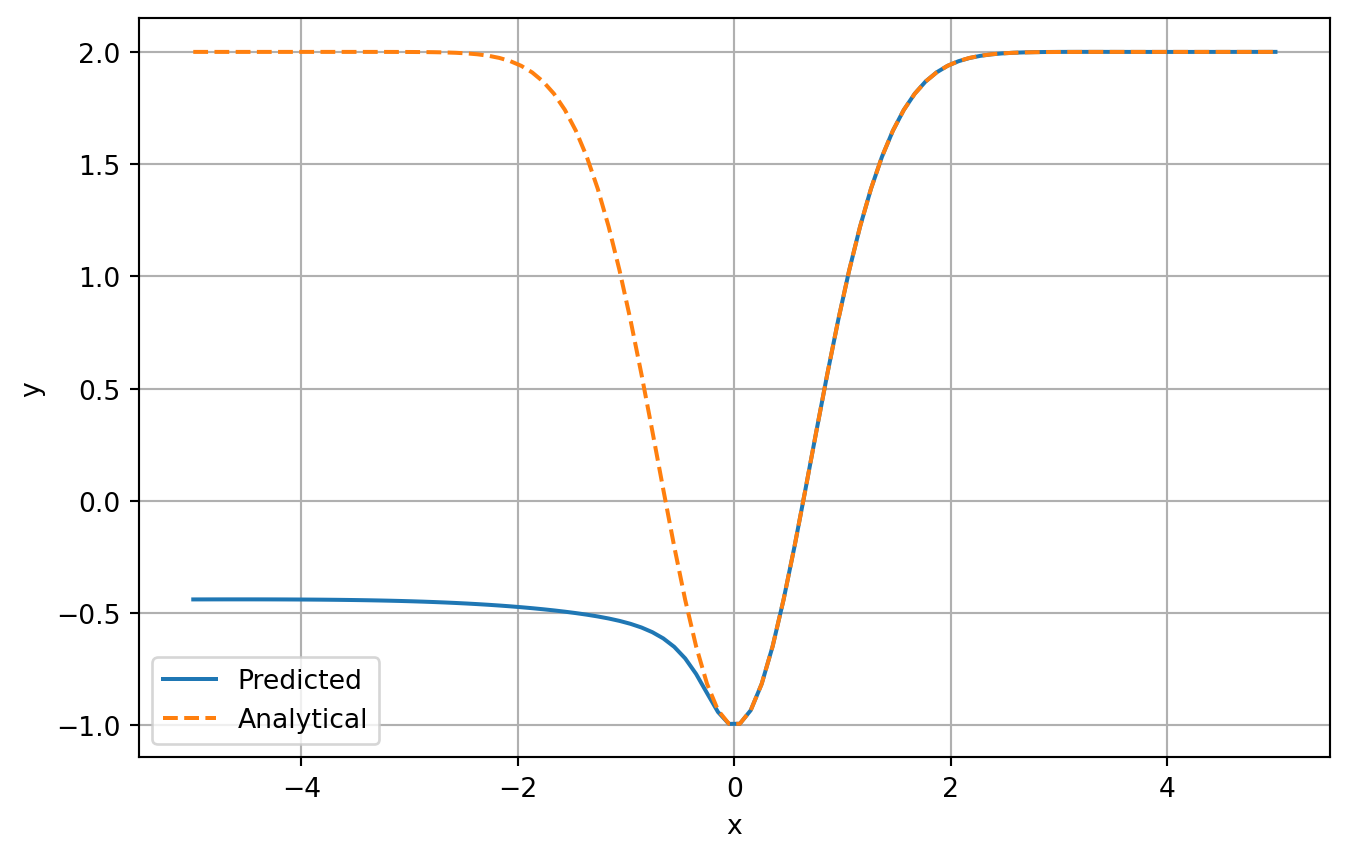
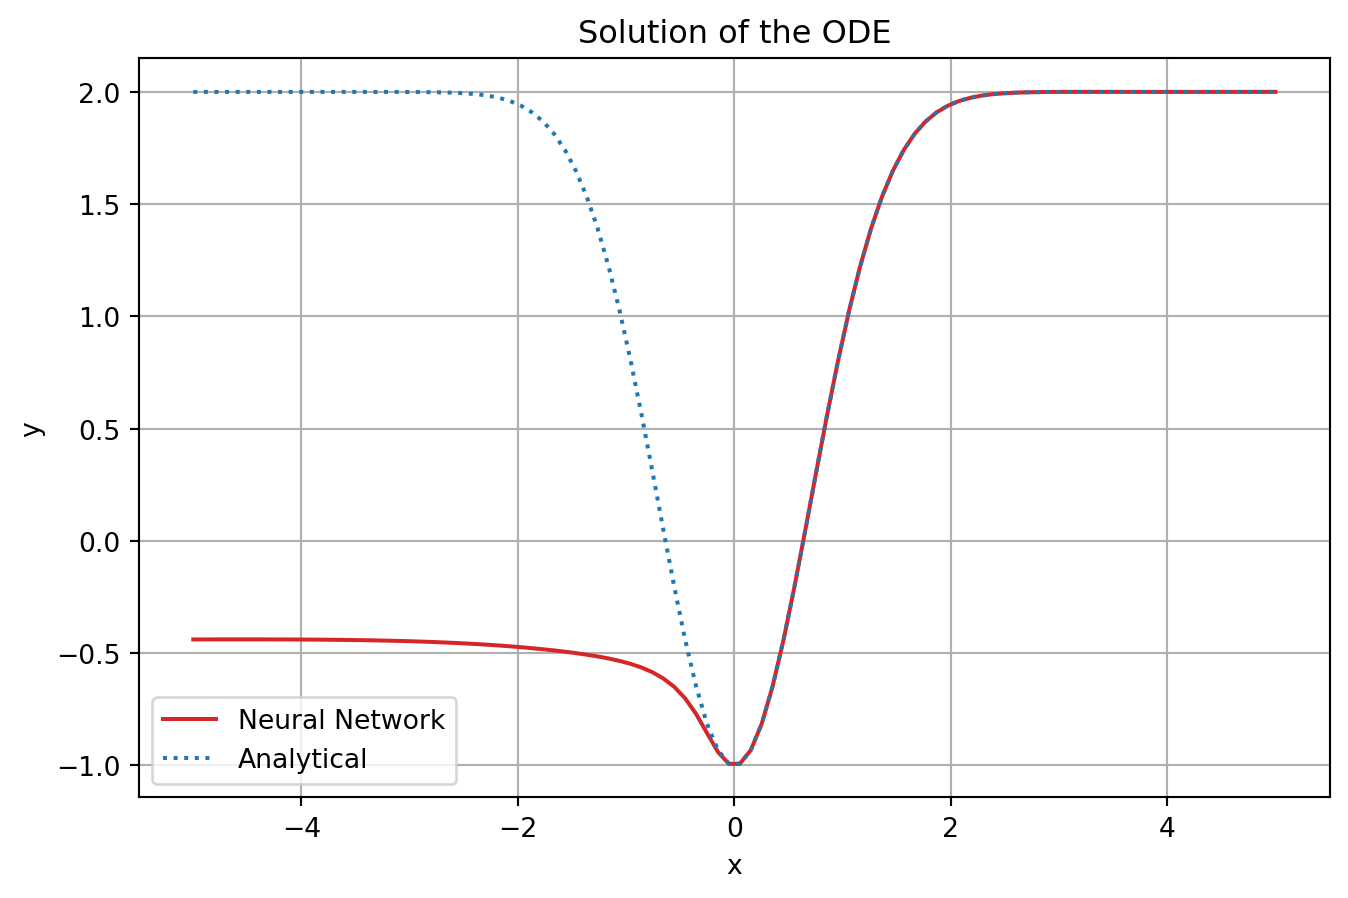
update website

diff --git a/docs/blog/SolvingODEsUsingANNs/SolvingODEsUsingANNs.html b/docs/blog/SolvingODEsUsingANNs/SolvingODEsUsingANNs.html
@@ -179,10 +179,10 @@ code span.wa { color: #60a0b0; font-weight: bold; font-style: italic; } /* Warni
   <li><a href="#second-ode" id="toc-second-ode" class="nav-link" data-scroll-target="#second-ode">Second ODE</a>
   <ul class="collapse">
   <li><a href="#define-custom-loss-function-1" id="toc-define-custom-loss-function-1" class="nav-link" data-scroll-target="#define-custom-loss-function-1">Define Custom Loss Function</a></li>
-  </ul></li>
   <li><a href="#construct-model-loss-and-optimizer-1" id="toc-construct-model-loss-and-optimizer-1" class="nav-link" data-scroll-target="#construct-model-loss-and-optimizer-1">Construct model, loss and optimizer</a></li>
   <li><a href="#set-x-values-1" id="toc-set-x-values-1" class="nav-link" data-scroll-target="#set-x-values-1">Set x-values</a></li>
   <li><a href="#training-1" id="toc-training-1" class="nav-link" data-scroll-target="#training-1">Training</a></li>
+  </ul></li>
   <li><a href="#visualize-learned-and-analytical-solution-1" id="toc-visualize-learned-and-analytical-solution-1" class="nav-link" data-scroll-target="#visualize-learned-and-analytical-solution-1">Visualize learned and analytical solution</a></li>
   </ul>
 </nav>
@@ -333,34 +333,34 @@ code span.wa { color: #60a0b0; font-weight: bold; font-style: italic; } /* Warni
 <span id="cb6-14"><a href="#cb6-14" aria-hidden="true" tabindex="-1"></a>    </span>
 <span id="cb6-15"><a href="#cb6-15" aria-hidden="true" tabindex="-1"></a>  <span class="bu">print</span>(<span class="ss">f"Epoch [</span><span class="sc">{</span>epoch<span class="op">+</span><span class="dv">1</span><span class="sc">}</span><span class="ss">/</span><span class="sc">{</span>num_epochs<span class="sc">}</span><span class="ss">], Loss: </span><span class="sc">{</span>loss<span class="sc">.</span>item()<span class="sc">:.4f}</span><span class="ss">"</span>)</span></code><button title="Copy to Clipboard" class="code-copy-button"><i class="bi"></i></button></pre></div>
 <div class="cell-output cell-output-stdout">
-<pre><code>Epoch [1/10], Loss: 0.6632</code></pre>
+<pre><code>Epoch [1/10], Loss: 0.1614</code></pre>
 </div>
 <div class="cell-output cell-output-stdout">
-<pre><code>Epoch [2/10], Loss: 0.1216</code></pre>
+<pre><code>Epoch [2/10], Loss: 0.0779</code></pre>
 </div>
 <div class="cell-output cell-output-stdout">
-<pre><code>Epoch [3/10], Loss: 0.0654</code></pre>
+<pre><code>Epoch [3/10], Loss: 0.0125</code></pre>
 </div>
 <div class="cell-output cell-output-stdout">
-<pre><code>Epoch [4/10], Loss: 0.0057</code></pre>
+<pre><code>Epoch [4/10], Loss: 0.0042</code></pre>
 </div>
 <div class="cell-output cell-output-stdout">
-<pre><code>Epoch [5/10], Loss: 0.0034</code></pre>
+<pre><code>Epoch [5/10], Loss: 0.0027</code></pre>
 </div>
 <div class="cell-output cell-output-stdout">
-<pre><code>Epoch [6/10], Loss: 0.0016</code></pre>
+<pre><code>Epoch [6/10], Loss: 0.0004</code></pre>
 </div>
 <div class="cell-output cell-output-stdout">
-<pre><code>Epoch [7/10], Loss: 0.0008</code></pre>
+<pre><code>Epoch [7/10], Loss: 0.0001</code></pre>
 </div>
 <div class="cell-output cell-output-stdout">
-<pre><code>Epoch [8/10], Loss: 0.0004</code></pre>
+<pre><code>Epoch [8/10], Loss: 0.0000</code></pre>
 </div>
 <div class="cell-output cell-output-stdout">
-<pre><code>Epoch [9/10], Loss: 0.0002</code></pre>
+<pre><code>Epoch [9/10], Loss: 0.0000</code></pre>
 </div>
 <div class="cell-output cell-output-stdout">
-<pre><code>Epoch [10/10], Loss: 0.0002</code></pre>
+<pre><code>Epoch [10/10], Loss: 0.0000</code></pre>
 </div>
 </div>
 </section>
@@ -374,16 +374,17 @@ code span.wa { color: #60a0b0; font-weight: bold; font-style: italic; } /* Warni
 <span id="cb17-3"><a href="#cb17-3" aria-hidden="true" tabindex="-1"></a>  y <span class="op">=</span> model(x)</span>
 <span id="cb17-4"><a href="#cb17-4" aria-hidden="true" tabindex="-1"></a></span>
 <span id="cb17-5"><a href="#cb17-5" aria-hidden="true" tabindex="-1"></a>plt.figure(figsize<span class="op">=</span>(<span class="dv">8</span>, <span class="dv">5</span>))</span>
-<span id="cb17-6"><a href="#cb17-6" aria-hidden="true" tabindex="-1"></a>plt.plot(x, y, label<span class="op">=</span><span class="st">"Predicted"</span>)</span>
-<span id="cb17-7"><a href="#cb17-7" aria-hidden="true" tabindex="-1"></a>plt.plot(x, torch.exp(<span class="op">-</span><span class="fl">0.5</span><span class="op">*</span>x)<span class="op">*</span>(<span class="fl">0.5</span><span class="op">*</span>torch.cos(x<span class="op">*</span>(<span class="dv">15</span>)<span class="op">**</span><span class="fl">0.5</span><span class="op">/</span><span class="dv">2</span>)<span class="op">+</span><span class="dv">3</span><span class="op">*</span>((<span class="dv">15</span>)<span class="op">**</span><span class="fl">0.5</span><span class="op">/</span><span class="dv">10</span>)<span class="op">*</span>torch.sin(x<span class="op">*</span>(<span class="dv">15</span>)<span class="op">**</span><span class="fl">0.5</span><span class="op">/</span><span class="dv">2</span>)), <span class="st">'--'</span>, label<span class="op">=</span><span class="st">"Analytical"</span>)</span>
-<span id="cb17-8"><a href="#cb17-8" aria-hidden="true" tabindex="-1"></a>plt.xlabel(<span class="st">"x"</span>)</span>
-<span id="cb17-9"><a href="#cb17-9" aria-hidden="true" tabindex="-1"></a>plt.ylabel(<span class="st">"y"</span>)</span>
-<span id="cb17-10"><a href="#cb17-10" aria-hidden="true" tabindex="-1"></a>plt.legend()</span>
-<span id="cb17-11"><a href="#cb17-11" aria-hidden="true" tabindex="-1"></a>plt.grid()</span>
-<span id="cb17-12"><a href="#cb17-12" aria-hidden="true" tabindex="-1"></a>plt.show()</span></code><button title="Copy to Clipboard" class="code-copy-button"><i class="bi"></i></button></pre></div>
+<span id="cb17-6"><a href="#cb17-6" aria-hidden="true" tabindex="-1"></a>plt.plot(x, y, color<span class="op">=</span><span class="st">"C3"</span>, label<span class="op">=</span><span class="st">"Neural Network"</span>)</span>
+<span id="cb17-7"><a href="#cb17-7" aria-hidden="true" tabindex="-1"></a>plt.plot(x, torch.exp(<span class="op">-</span><span class="fl">0.5</span><span class="op">*</span>x)<span class="op">*</span>(<span class="fl">0.5</span><span class="op">*</span>torch.cos(x<span class="op">*</span>(<span class="dv">15</span>)<span class="op">**</span><span class="fl">0.5</span><span class="op">/</span><span class="dv">2</span>)<span class="op">+</span><span class="dv">3</span><span class="op">*</span>((<span class="dv">15</span>)<span class="op">**</span><span class="fl">0.5</span><span class="op">/</span><span class="dv">10</span>)<span class="op">*</span>torch.sin(x<span class="op">*</span>(<span class="dv">15</span>)<span class="op">**</span><span class="fl">0.5</span><span class="op">/</span><span class="dv">2</span>)), color<span class="op">=</span><span class="st">"C0"</span>, label<span class="op">=</span><span class="st">"Analytical"</span>, linestyle<span class="op">=</span><span class="st">"dotted"</span>)</span>
+<span id="cb17-8"><a href="#cb17-8" aria-hidden="true" tabindex="-1"></a>plt.title(<span class="st">"Solution of the ODE"</span>)</span>
+<span id="cb17-9"><a href="#cb17-9" aria-hidden="true" tabindex="-1"></a>plt.xlabel(<span class="st">"x"</span>)</span>
+<span id="cb17-10"><a href="#cb17-10" aria-hidden="true" tabindex="-1"></a>plt.ylabel(<span class="st">"y"</span>)</span>
+<span id="cb17-11"><a href="#cb17-11" aria-hidden="true" tabindex="-1"></a>plt.legend()</span>
+<span id="cb17-12"><a href="#cb17-12" aria-hidden="true" tabindex="-1"></a>plt.grid()</span>
+<span id="cb17-13"><a href="#cb17-13" aria-hidden="true" tabindex="-1"></a>plt.show()</span></code><button title="Copy to Clipboard" class="code-copy-button"><i class="bi"></i></button></pre></div>
 </details>
 <div class="cell-output cell-output-display">
-<p><img src="SolvingODEsUsingANNs_files/figure-html/cell-8-output-1.png" width="674" height="429"></p>
+<p><img src="SolvingODEsUsingANNs_files/figure-html/cell-8-output-1.png" width="674" height="449"></p>
 </div>
 </div>
 </section>
@@ -415,36 +416,38 @@ code span.wa { color: #60a0b0; font-weight: bold; font-style: italic; } /* Warni
 <span id="cb18-20"><a href="#cb18-20" aria-hidden="true" tabindex="-1"></a>    <span class="cf">return</span> loss_total</span></code><button title="Copy to Clipboard" class="code-copy-button"><i class="bi"></i></button></pre></div>
 </div>
 </section>
-</section>
-<section id="construct-model-loss-and-optimizer-1" class="level1">
-<h1>Construct model, loss and optimizer</h1>
+<section id="construct-model-loss-and-optimizer-1" class="level2">
+<h2 class="anchored" data-anchor-id="construct-model-loss-and-optimizer-1">Construct model, loss and optimizer</h2>
 <div class="cell" data-execution_count="9">
 <div class="sourceCode cell-code" id="cb19"><pre class="sourceCode python code-with-copy"><code class="sourceCode python"><span id="cb19-1"><a href="#cb19-1" aria-hidden="true" tabindex="-1"></a>model <span class="op">=</span> Network(input_size<span class="op">=</span><span class="dv">1</span>, hidden_size<span class="op">=</span><span class="dv">10</span>, output_size<span class="op">=</span><span class="dv">1</span>)</span>
 <span id="cb19-2"><a href="#cb19-2" aria-hidden="true" tabindex="-1"></a>criterion <span class="op">=</span> LossODE()</span>
 <span id="cb19-3"><a href="#cb19-3" aria-hidden="true" tabindex="-1"></a>optimizer <span class="op">=</span> optim.Adam(model.parameters(), lr<span class="op">=</span><span class="fl">1e-3</span>)</span></code><button title="Copy to Clipboard" class="code-copy-button"><i class="bi"></i></button></pre></div>
 </div>
 </section>
-<section id="set-x-values-1" class="level1">
-<h1>Set x-values</h1>
+<section id="set-x-values-1" class="level2">
+<h2 class="anchored" data-anchor-id="set-x-values-1">Set x-values</h2>
 <div class="cell" data-execution_count="10">
 <div class="sourceCode cell-code" id="cb20"><pre class="sourceCode python code-with-copy"><code class="sourceCode python"><span id="cb20-1"><a href="#cb20-1" aria-hidden="true" tabindex="-1"></a>x <span class="op">=</span> torch.linspace(<span class="dv">0</span>, <span class="dv">5</span>, <span class="dv">100</span>)[:, <span class="va">None</span>]</span></code><button title="Copy to Clipboard" class="code-copy-button"><i class="bi"></i></button></pre></div>
 </div>
 </section>
-<section id="training-1" class="level1">
-<h1>Training</h1>
+<section id="training-1" class="level2">
+<h2 class="anchored" data-anchor-id="training-1">Training</h2>
 <div class="cell" data-execution_count="11">
-<div class="sourceCode cell-code" id="cb21"><pre class="sourceCode python code-with-copy"><code class="sourceCode python"><span id="cb21-1"><a href="#cb21-1" aria-hidden="true" tabindex="-1"></a>num_epochs <span class="op">=</span> <span class="dv">10</span></span>
-<span id="cb21-2"><a href="#cb21-2" aria-hidden="true" tabindex="-1"></a>steps_per_epoch <span class="op">=</span> <span class="dv">3000</span></span>
+<div class="sourceCode cell-code" id="cb21"><pre class="sourceCode python code-with-copy"><code class="sourceCode python"><span id="cb21-1"><a href="#cb21-1" aria-hidden="true" tabindex="-1"></a>seed <span class="op">=</span> <span class="dv">42</span></span>
+<span id="cb21-2"><a href="#cb21-2" aria-hidden="true" tabindex="-1"></a>torch.manual_seed(seed)</span>
 <span id="cb21-3"><a href="#cb21-3" aria-hidden="true" tabindex="-1"></a></span>
-<span id="cb21-4"><a href="#cb21-4" aria-hidden="true" tabindex="-1"></a><span class="cf">for</span> epoch <span class="kw">in</span> <span class="bu">range</span>(num_epochs):</span>
-<span id="cb21-5"><a href="#cb21-5" aria-hidden="true" tabindex="-1"></a>  <span class="cf">for</span> step <span class="kw">in</span> <span class="bu">range</span>(steps_per_epoch):</span>
-<span id="cb21-6"><a href="#cb21-6" aria-hidden="true" tabindex="-1"></a>    loss <span class="op">=</span> criterion(model, x)</span>
-<span id="cb21-7"><a href="#cb21-7" aria-hidden="true" tabindex="-1"></a>    </span>
-<span id="cb21-8"><a href="#cb21-8" aria-hidden="true" tabindex="-1"></a>    optimizer.zero_grad()</span>
-<span id="cb21-9"><a href="#cb21-9" aria-hidden="true" tabindex="-1"></a>    loss.backward()</span>
-<span id="cb21-10"><a href="#cb21-10" aria-hidden="true" tabindex="-1"></a>    optimizer.step()</span>
-<span id="cb21-11"><a href="#cb21-11" aria-hidden="true" tabindex="-1"></a>    </span>
-<span id="cb21-12"><a href="#cb21-12" aria-hidden="true" tabindex="-1"></a>  <span class="bu">print</span>(<span class="ss">f"Epoch [</span><span class="sc">{</span>epoch<span class="op">+</span><span class="dv">1</span><span class="sc">}</span><span class="ss">/</span><span class="sc">{</span>num_epochs<span class="sc">}</span><span class="ss">], Loss: </span><span class="sc">{</span>loss<span class="sc">.</span>item()<span class="sc">:.4f}</span><span class="ss">"</span>)</span></code><button title="Copy to Clipboard" class="code-copy-button"><i class="bi"></i></button></pre></div>
+<span id="cb21-4"><a href="#cb21-4" aria-hidden="true" tabindex="-1"></a>num_epochs <span class="op">=</span> <span class="dv">10</span></span>
+<span id="cb21-5"><a href="#cb21-5" aria-hidden="true" tabindex="-1"></a>steps_per_epoch <span class="op">=</span> <span class="dv">3000</span></span>
+<span id="cb21-6"><a href="#cb21-6" aria-hidden="true" tabindex="-1"></a></span>
+<span id="cb21-7"><a href="#cb21-7" aria-hidden="true" tabindex="-1"></a><span class="cf">for</span> epoch <span class="kw">in</span> <span class="bu">range</span>(num_epochs):</span>
+<span id="cb21-8"><a href="#cb21-8" aria-hidden="true" tabindex="-1"></a>  <span class="cf">for</span> step <span class="kw">in</span> <span class="bu">range</span>(steps_per_epoch):</span>
+<span id="cb21-9"><a href="#cb21-9" aria-hidden="true" tabindex="-1"></a>    loss <span class="op">=</span> criterion(model, x)</span>
+<span id="cb21-10"><a href="#cb21-10" aria-hidden="true" tabindex="-1"></a>    </span>
+<span id="cb21-11"><a href="#cb21-11" aria-hidden="true" tabindex="-1"></a>    optimizer.zero_grad()</span>
+<span id="cb21-12"><a href="#cb21-12" aria-hidden="true" tabindex="-1"></a>    loss.backward()</span>
+<span id="cb21-13"><a href="#cb21-13" aria-hidden="true" tabindex="-1"></a>    optimizer.step()</span>
+<span id="cb21-14"><a href="#cb21-14" aria-hidden="true" tabindex="-1"></a>    </span>
+<span id="cb21-15"><a href="#cb21-15" aria-hidden="true" tabindex="-1"></a>  <span class="bu">print</span>(<span class="ss">f"Epoch [</span><span class="sc">{</span>epoch<span class="op">+</span><span class="dv">1</span><span class="sc">}</span><span class="ss">/</span><span class="sc">{</span>num_epochs<span class="sc">}</span><span class="ss">], Loss: </span><span class="sc">{</span>loss<span class="sc">.</span>item()<span class="sc">:.4f}</span><span class="ss">"</span>)</span></code><button title="Copy to Clipboard" class="code-copy-button"><i class="bi"></i></button></pre></div>
 <div class="cell-output cell-output-stdout">
 <pre><code>Epoch [1/10], Loss: 0.3274</code></pre>
 </div>
@@ -477,6 +480,7 @@ code span.wa { color: #60a0b0; font-weight: bold; font-style: italic; } /* Warni
 </div>
 </div>
 </section>
+</section>
 <section id="visualize-learned-and-analytical-solution-1" class="level1">
 <h1>Visualize learned and analytical solution</h1>
 <div class="cell" data-execution_count="12">
@@ -487,16 +491,17 @@ code span.wa { color: #60a0b0; font-weight: bold; font-style: italic; } /* Warni
 <span id="cb32-3"><a href="#cb32-3" aria-hidden="true" tabindex="-1"></a>  y <span class="op">=</span> model(x)</span>
 <span id="cb32-4"><a href="#cb32-4" aria-hidden="true" tabindex="-1"></a></span>
 <span id="cb32-5"><a href="#cb32-5" aria-hidden="true" tabindex="-1"></a>plt.figure(figsize<span class="op">=</span>(<span class="dv">8</span>, <span class="dv">5</span>))</span>
-<span id="cb32-6"><a href="#cb32-6" aria-hidden="true" tabindex="-1"></a>plt.plot(x, y, label<span class="op">=</span><span class="st">"Predicted"</span>)</span>
-<span id="cb32-7"><a href="#cb32-7" aria-hidden="true" tabindex="-1"></a>plt.plot(x, <span class="dv">2</span> <span class="op">-</span> <span class="dv">3</span><span class="op">*</span>torch.exp(<span class="op">-</span>x<span class="op">**</span><span class="dv">2</span>), <span class="st">'--'</span>, label<span class="op">=</span><span class="st">"Analytical"</span>)</span>
-<span id="cb32-8"><a href="#cb32-8" aria-hidden="true" tabindex="-1"></a>plt.xlabel(<span class="st">"x"</span>)</span>
-<span id="cb32-9"><a href="#cb32-9" aria-hidden="true" tabindex="-1"></a>plt.ylabel(<span class="st">"y"</span>)</span>
-<span id="cb32-10"><a href="#cb32-10" aria-hidden="true" tabindex="-1"></a>plt.legend()</span>
-<span id="cb32-11"><a href="#cb32-11" aria-hidden="true" tabindex="-1"></a>plt.grid()</span>
-<span id="cb32-12"><a href="#cb32-12" aria-hidden="true" tabindex="-1"></a>plt.show()</span></code><button title="Copy to Clipboard" class="code-copy-button"><i class="bi"></i></button></pre></div>
+<span id="cb32-6"><a href="#cb32-6" aria-hidden="true" tabindex="-1"></a>plt.plot(x, y, color<span class="op">=</span><span class="st">"C3"</span>, label<span class="op">=</span><span class="st">"Neural Network"</span>)</span>
+<span id="cb32-7"><a href="#cb32-7" aria-hidden="true" tabindex="-1"></a>plt.plot(x, <span class="dv">2</span> <span class="op">-</span> <span class="dv">3</span><span class="op">*</span>torch.exp(<span class="op">-</span>x<span class="op">**</span><span class="dv">2</span>), color<span class="op">=</span><span class="st">"C0"</span> , label<span class="op">=</span><span class="st">"Analytical"</span>, linestyle<span class="op">=</span><span class="st">"dotted"</span>)</span>
+<span id="cb32-8"><a href="#cb32-8" aria-hidden="true" tabindex="-1"></a>plt.title(<span class="st">"Solution of the ODE"</span>)</span>
+<span id="cb32-9"><a href="#cb32-9" aria-hidden="true" tabindex="-1"></a>plt.xlabel(<span class="st">"x"</span>)</span>
+<span id="cb32-10"><a href="#cb32-10" aria-hidden="true" tabindex="-1"></a>plt.ylabel(<span class="st">"y"</span>)</span>
+<span id="cb32-11"><a href="#cb32-11" aria-hidden="true" tabindex="-1"></a>plt.legend()</span>
+<span id="cb32-12"><a href="#cb32-12" aria-hidden="true" tabindex="-1"></a>plt.grid()</span>
+<span id="cb32-13"><a href="#cb32-13" aria-hidden="true" tabindex="-1"></a>plt.show()</span></code><button title="Copy to Clipboard" class="code-copy-button"><i class="bi"></i></button></pre></div>
 </details>
 <div class="cell-output cell-output-display">
-<p><img src="SolvingODEsUsingANNs_files/figure-html/cell-13-output-1.png" width="674" height="429"></p>
+<p><img src="SolvingODEsUsingANNs_files/figure-html/cell-13-output-1.png" width="674" height="449"></p>
 </div>
 </div>
 

diff --git a/docs/blog/ANNsForProbabilityDensityEstimation/ANNsForProbabilityDensityEstimation.html b/docs/blog/ANNsForProbabilityDensityEstimation/ANNsForProbabilityDensityEstimation.html
@@ -6,8 +6,11 @@
 
 <meta name="viewport" content="width=device-width, initial-scale=1.0, user-scalable=yes">
 
+<meta name="author" content="Author">
+<meta name="dcterms.date" content="2021-05-22">
+<meta name="description" content="Post description">
 
-<title>Dominik Eichhorn – annsforprobabilitydensityestimation</title>
+<title>Dominik Eichhorn - Post titel: PDE via NN</title>
 <style>
 code{white-space: pre-wrap;}
 span.smallcaps{font-variant: small-caps;}
@@ -179,7 +182,42 @@ code span.wa { color: #60a0b0; font-weight: bold; font-style: italic; } /* Warni
 <!-- main -->
 <main class="content" id="quarto-document-content">
 
+<header id="title-block-header" class="quarto-title-block default">
+<div class="quarto-title">
+<h1 class="title">Post titel: PDE via NN</h1>
+  <div class="quarto-categories">
+    <div class="quarto-category">Science</div>
+    <div class="quarto-category">Technology</div>
+  </div>
+  </div>
 
+<div>
+  <div class="description">
+    Post description
+  </div>
+</div>
+
+
+<div class="quarto-title-meta">
+
+    <div>
+    <div class="quarto-title-meta-heading">Author</div>
+    <div class="quarto-title-meta-contents">
+             <p>Author </p>
+          </div>
+  </div>
+    
+    <div>
+    <div class="quarto-title-meta-heading">Published</div>
+    <div class="quarto-title-meta-contents">
+      <p class="date">May 22, 2021</p>
+    </div>
+  </div>
+    
+  </div>
+  
+
+</header>
 
 <p>ACHTUNG: bei NN training scheint doch noch randomness drin zu sein; WICHTIG SETZE DESHALB WEITERE SEEDS INSBESONDERE FÜR random</p>
 <section id="load-packages" class="level1">
@@ -216,7 +254,7 @@ code span.wa { color: #60a0b0; font-weight: bold; font-style: italic; } /* Warni
 <div class="sourceCode cell-code" id="cb3"><pre class="sourceCode python code-with-copy"><code class="sourceCode python"><span id="cb3-1"><a href="#cb3-1" aria-hidden="true" tabindex="-1"></a>x <span class="op">=</span> np.linspace(<span class="dv">0</span>, <span class="dv">10</span>, <span class="dv">1000</span>)</span>
 <span id="cb3-2"><a href="#cb3-2" aria-hidden="true" tabindex="-1"></a></span>
 <span id="cb3-3"><a href="#cb3-3" aria-hidden="true" tabindex="-1"></a>plt.figure(figsize<span class="op">=</span>(<span class="dv">8</span>,<span class="dv">5</span>))</span>
-<span id="cb3-4"><a href="#cb3-4" aria-hidden="true" tabindex="-1"></a>plt.plot(x, mix.pdf(x), color<span class="op">=</span><span class="st">"C0"</span>, linestyle<span class="op">=</span><span class="st">"dashed"</span>)</span>
+<span id="cb3-4"><a href="#cb3-4" aria-hidden="true" tabindex="-1"></a>plt.plot(x, mix.pdf(x), color<span class="op">=</span><span class="st">"C0"</span>, linestyle<span class="op">=</span><span class="st">"dotted"</span>)</span>
 <span id="cb3-5"><a href="#cb3-5" aria-hidden="true" tabindex="-1"></a>plt.title(<span class="st">"True Probability Density Function"</span>)</span>
 <span id="cb3-6"><a href="#cb3-6" aria-hidden="true" tabindex="-1"></a>plt.xlabel(<span class="st">"Density"</span>)</span>
 <span id="cb3-7"><a href="#cb3-7" aria-hidden="true" tabindex="-1"></a>plt.ylabel(<span class="st">"x"</span>)</span>
@@ -328,7 +366,7 @@ code span.wa { color: #60a0b0; font-weight: bold; font-style: italic; } /* Warni
 <span id="cb9-4"><a href="#cb9-4" aria-hidden="true" tabindex="-1"></a></span>
 <span id="cb9-5"><a href="#cb9-5" aria-hidden="true" tabindex="-1"></a>plt.figure(figsize<span class="op">=</span>(<span class="dv">8</span>, <span class="dv">5</span>))</span>
 <span id="cb9-6"><a href="#cb9-6" aria-hidden="true" tabindex="-1"></a>plt.plot(xx.numpy(), cdf_est.numpy(), color<span class="op">=</span><span class="st">"C3"</span>, label<span class="op">=</span><span class="st">"Estimated CDF"</span>)</span>
-<span id="cb9-7"><a href="#cb9-7" aria-hidden="true" tabindex="-1"></a>plt.plot(xx.numpy(), mix.cdf(xx), color<span class="op">=</span><span class="st">"C0"</span>, label<span class="op">=</span><span class="st">"True CDF"</span>, linestyle<span class="op">=</span><span class="st">"dashed"</span>)</span>
+<span id="cb9-7"><a href="#cb9-7" aria-hidden="true" tabindex="-1"></a>plt.plot(xx.numpy(), mix.cdf(xx), color<span class="op">=</span><span class="st">"C0"</span>, label<span class="op">=</span><span class="st">"True CDF"</span>, linestyle<span class="op">=</span><span class="st">"dotted"</span>)</span>
 <span id="cb9-8"><a href="#cb9-8" aria-hidden="true" tabindex="-1"></a>plt.title(<span class="st">"Cumulative Density Function (CDF)"</span>)</span>
 <span id="cb9-9"><a href="#cb9-9" aria-hidden="true" tabindex="-1"></a>plt.xlabel(<span class="st">"x"</span>)</span>
 <span id="cb9-10"><a href="#cb9-10" aria-hidden="true" tabindex="-1"></a>plt.ylabel(<span class="st">"Cumulative Density"</span>)</span>
@@ -366,7 +404,7 @@ code span.wa { color: #60a0b0; font-weight: bold; font-style: italic; } /* Warni
 <span id="cb11-4"><a href="#cb11-4" aria-hidden="true" tabindex="-1"></a></span>
 <span id="cb11-5"><a href="#cb11-5" aria-hidden="true" tabindex="-1"></a>plt.figure(figsize<span class="op">=</span>(<span class="dv">8</span>, <span class="dv">5</span>))</span>
 <span id="cb11-6"><a href="#cb11-6" aria-hidden="true" tabindex="-1"></a>plt.plot(xx_np, pdf_est.numpy(), color<span class="op">=</span><span class="st">"C3"</span>, label<span class="op">=</span><span class="st">"Estimated PDF"</span>)</span>
-<span id="cb11-7"><a href="#cb11-7" aria-hidden="true" tabindex="-1"></a>plt.plot(xx_np, mix.pdf(xx_np), color<span class="op">=</span><span class="st">"C0"</span>, label<span class="op">=</span><span class="st">"True PDF"</span>, linestyle<span class="op">=</span><span class="st">'dashed'</span>)</span>
+<span id="cb11-7"><a href="#cb11-7" aria-hidden="true" tabindex="-1"></a>plt.plot(xx_np, mix.pdf(xx_np), color<span class="op">=</span><span class="st">"C0"</span>, label<span class="op">=</span><span class="st">"True PDF"</span>, linestyle<span class="op">=</span><span class="st">"dotted"</span>)</span>
 <span id="cb11-8"><a href="#cb11-8" aria-hidden="true" tabindex="-1"></a>plt.title(<span class="st">"Probability Density Function (PDF)"</span>)</span>
 <span id="cb11-9"><a href="#cb11-9" aria-hidden="true" tabindex="-1"></a>plt.xlabel(<span class="st">"x"</span>)</span>
 <span id="cb11-10"><a href="#cb11-10" aria-hidden="true" tabindex="-1"></a>plt.ylabel(<span class="st">"Density"</span>)</span>
